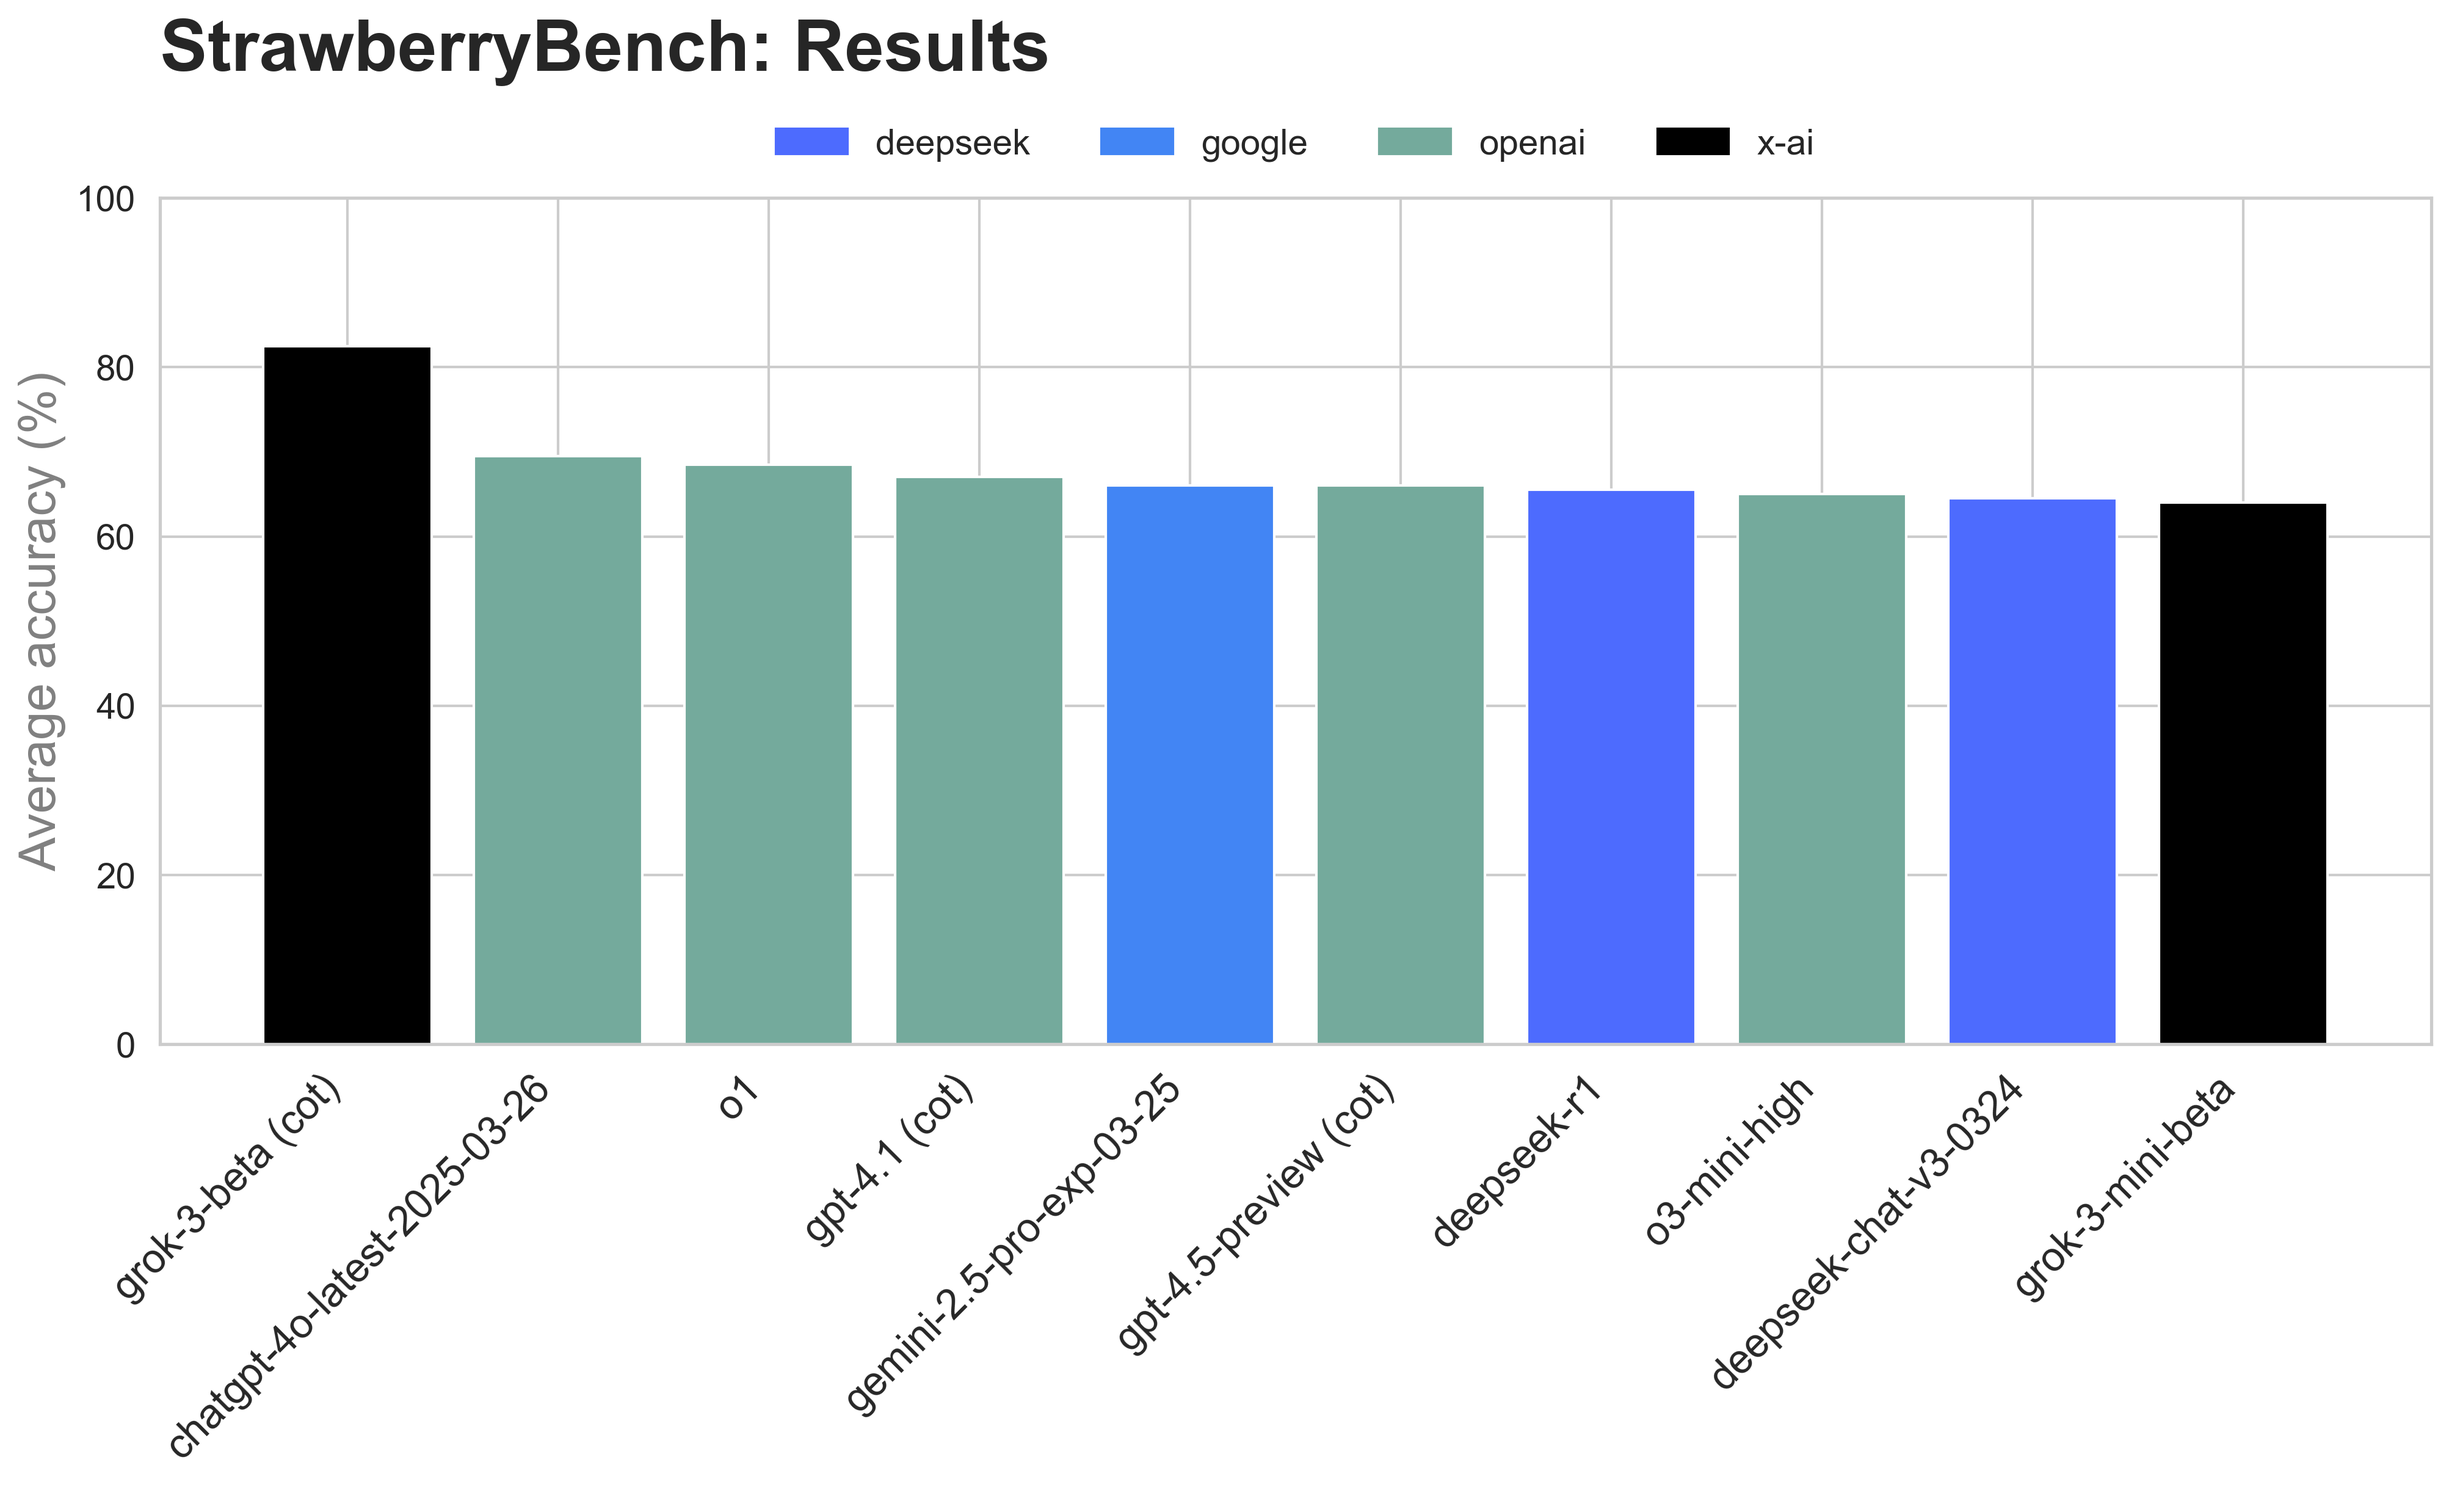
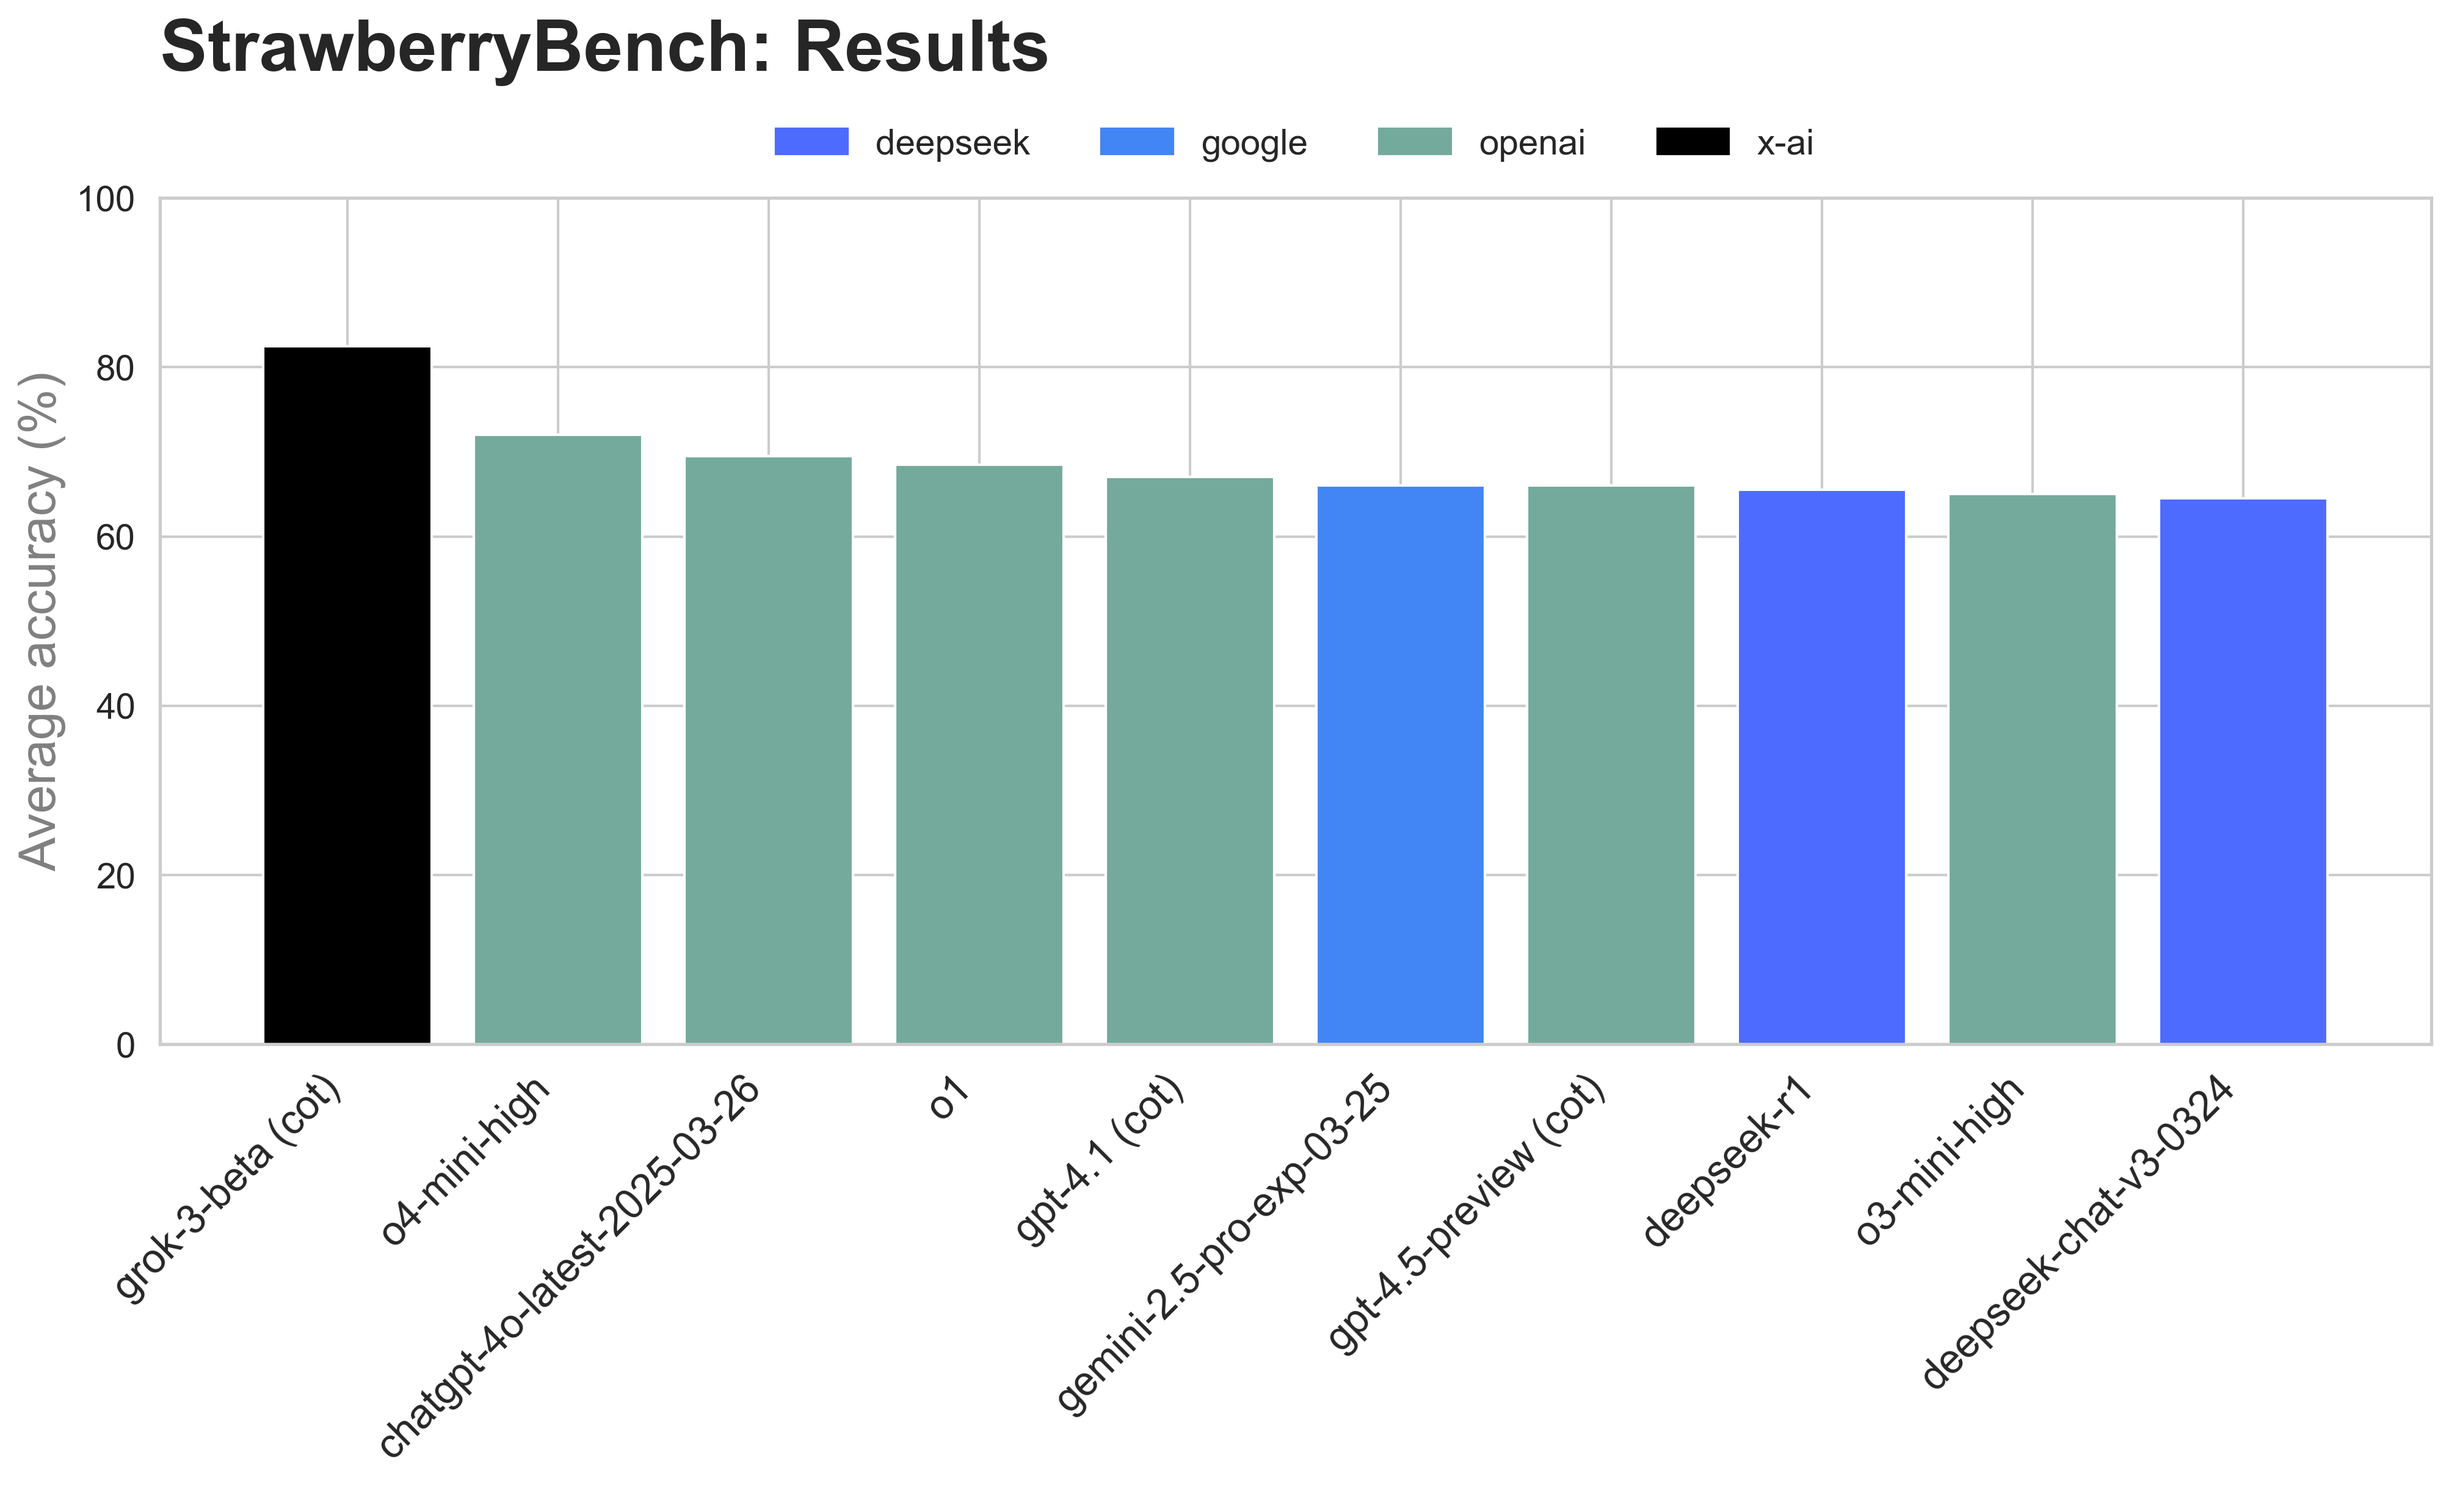
Add o4-mini

diff --git a/src/config.py b/src/config.py
@@ -66,6 +66,7 @@ MODELS = [
     # { "name": "openai/o1-mini", "client": "openai", "type": "reasoning" },
     # { "name": "openai/o3-mini", "client": "openai", "type": "reasoning" },
     # { "name": "openai/o3-mini-high", "client": "openai", "type": "reasoning" },
+    # { "name": "openai/o4-mini", "client": "openai", "type": "reasoning" },
     # { "name": "qwen/qwq-32b", "client": "openrouter", "type": "reasoning", "settings": {"rate_limit": 30} },
     # { "name": "x-ai/grok-3-mini-beta", "client": "openrouter", "type": "reasoning" },
 ]
